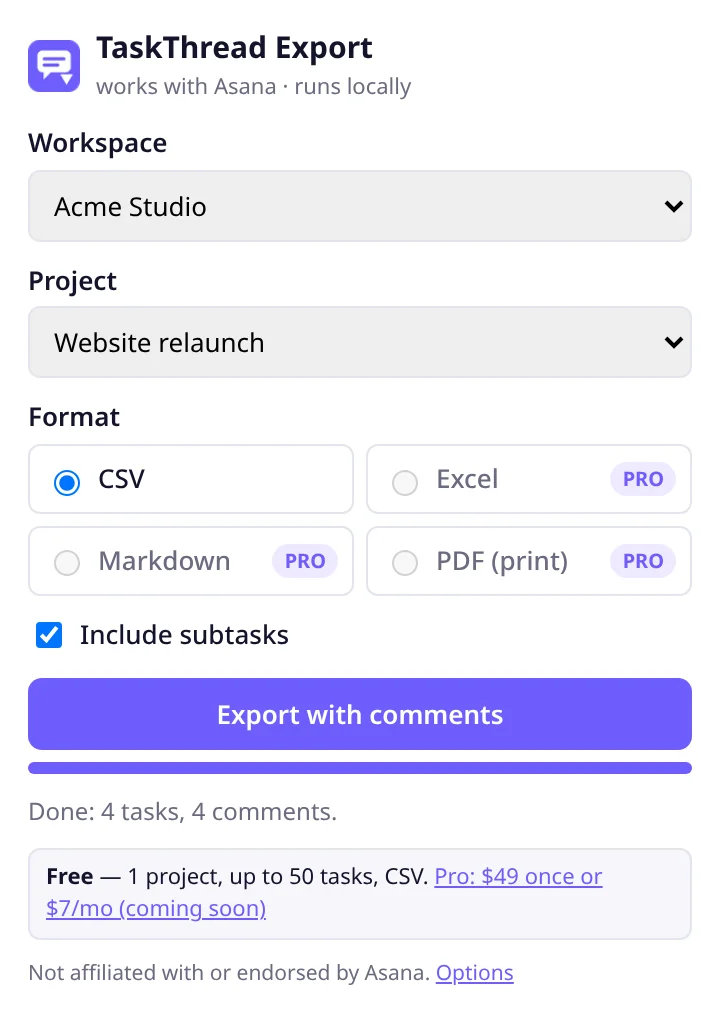
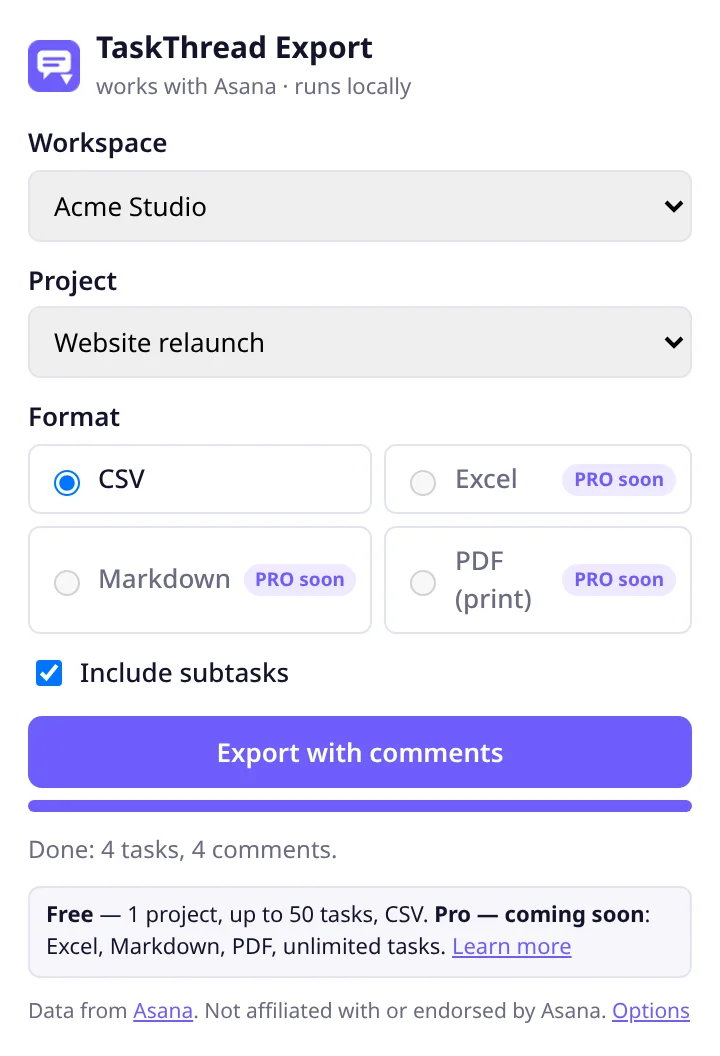
TaskThread: PAT-only privacy policy, Pro coming soon, consent/connect FAQ

diff --git a/taskthread/index.html b/taskthread/index.html
@@ -1,31 +1,32 @@
 <!doctype html><html lang="en"><head><meta charset="utf-8"><meta name="viewport" content="width=device-width,initial-scale=1">
 <title>Export Asana comments to CSV, Excel, Markdown or PDF — TaskThread Export</title>
-<meta name="description" content="Export Asana tasks with their full comment threads to CSV, Excel, Markdown or PDF. A Chrome extension that runs locally on the official Asana API. Free for one project.">
+<meta name="description" content="Export Asana tasks with their full comment threads to CSV (Excel, Markdown and PDF coming soon). A Chrome extension that runs locally on the official Asana API. Free for one project.">
 <link rel="canonical" href="https://dr1nnas.github.io/novif-web/taskthread/"><link rel="icon" href="../assets/taskthread-icon.png">
 <meta property="og:title" content="Export Asana tasks with comments — TaskThread Export"><meta property="og:description" content="Asana's own export leaves comments out. TaskThread Export includes every comment, locally in your browser."><meta property="og:image" content="https://dr1nnas.github.io/novif-web/assets/shots/taskthread-report.webp">
 <script type="application/ld+json">{"@context":"https://schema.org","@type":"SoftwareApplication","name":"TaskThread Export – works with Asana","applicationCategory":"BusinessApplication","operatingSystem":"Chrome","offers":{"@type":"Offer","price":"0","priceCurrency":"USD"}}</script>
 <script type="application/ld+json">{"@context":"https://schema.org","@type":"FAQPage","mainEntity":[{"@type":"Question","name":"Can I export Asana comments?","acceptedAnswer":{"@type":"Answer","text":"Asana's built-in CSV, Excel and JSON project exports do not include comments. TaskThread Export uses the official Asana API to export every task together with its full comment thread to CSV, Excel, Markdown or PDF."}},{"@type":"Question","name":"Does my data leave my browser?","acceptedAnswer":{"@type":"Answer","text":"No. Tasks and comments are fetched from Asana's API directly into your browser and saved as a file on your computer. Nothing is sent to our servers."}}]}</script>
 <style>*{box-sizing:border-box}body{margin:0;font:16px/1.6 system-ui,-apple-system,Segoe UI,Roboto,sans-serif;color:#14142b;background:#fff}a{color:#6d5dfc}img{max-width:100%;display:block}.wrap{max-width:1080px;margin:auto;padding:0 20px}header{border-bottom:1px solid #e4e4ee}header .wrap{display:flex;justify-content:space-between;align-items:center;height:60px}.logo{display:flex;gap:8px;align-items:center;font-weight:800;text-decoration:none;color:inherit}.logo img{width:28px}nav a{margin-left:18px;text-decoration:none;color:#14142b;opacity:.8}section{padding:64px 0}h1{font-size:clamp(2rem,5vw,3.2rem);line-height:1.1;margin:0 0 16px}h2{font-size:1.8rem;margin:0 0 14px}.hero{display:grid;grid-template-columns:1.2fr 1fr;gap:40px;align-items:center}.lead{font-size:1.15rem;color:#44445a}.btn{display:inline-block;background:#6d5dfc;color:#fff;padding:12px 22px;border-radius:8px;text-decoration:none;font-weight:700}.btn.ghost{background:#fff;color:#6d5dfc;border:2px solid #6d5dfc}.cta{display:flex;gap:12px;flex-wrap:wrap;margin:22px 0}.alt{background:#f6f6fb}.g3{display:grid;grid-template-columns:repeat(3,1fr);gap:18px}.g2{display:grid;grid-template-columns:1fr 1fr;gap:18px}.card{background:#fff;border:1px solid #e4e4ee;border-radius:12px;padding:22px}.card h3{margin:0 0 6px}.price{font-size:2rem;font-weight:800}.soon{font-size:.75rem;background:#efeaff;color:#6d5dfc;border-radius:99px;padding:2px 10px;font-weight:700;vertical-align:middle}ul.t{padding-left:20px}.shot{border:1px solid #e4e4ee;border-radius:12px;box-shadow:0 12px 40px rgba(20,20,60,.12)}footer{padding:30px 0 50px;font-size:.85rem;color:#6b6b80;border-top:1px solid #e4e4ee}details{border-bottom:1px solid #e4e4ee;padding:12px 0}summary{font-weight:700;cursor:pointer}@media(max-width:820px){.hero,.g3,.g2{grid-template-columns:1fr}nav a:not(.btn){display:none}}</style></head><body><header><div class="wrap"><a class="logo" href="./"><img src="../assets/taskthread-icon.png" alt="">TaskThread Export</a><nav><a href="#features">Features</a><a href="#pricing">Pricing</a><a href="#faq">FAQ</a><a href="privacy/">Privacy</a></nav></div></header>
 <section><div class="wrap hero"><div><h1>Export Asana tasks <em>with</em> their comments</h1>
-<p class="lead">Asana's built-in export leaves comments out. TaskThread Export is a Chrome extension that exports every task in a project together with its full comment thread — author, date and text — to <b>CSV, Excel, Markdown or a printable PDF</b>.</p>
+<p class="lead">Asana's built-in export leaves comments out. TaskThread Export is a Chrome extension that exports every task in a project together with its full comment thread — author, date and text — to <b>CSV</b> for free — with <b>Excel, Markdown and printable PDF</b> coming soon in Pro.</p>
 <div class="cta"><a class="btn" href="mailto:shop@novif.app?subject=TaskThread%20Export%20early%20access">Get early access</a><a class="btn ghost" href="#pricing">See pricing</a></div>
 <p style="font-size:.9rem;color:#6b6b80">Chrome Web Store listing coming soon · works with Asana · runs 100% in your browser</p></div>
 <img class="shot" src="../assets/shots/taskthread-popup.webp" alt="TaskThread Export popup: pick workspace, project and format, then Export with comments" width="360"></div></section>
 <section id="features" class="alt"><div class="wrap"><h2>Everything the native export misses</h2><div class="g3">
 <div class="card"><h3>Full comment threads</h3><p>Every comment on every task and subtask, in order, with author and timestamp. System noise (assignments, moves) is filtered out.</p></div>
-<div class="card"><h3>4 formats</h3><p>CSV (one row per comment), Excel with Comments + Tasks sheets, Markdown for docs and AI tools, and a clean print-to-PDF report.</p></div>
+<div class="card"><h3>4 formats</h3><p>CSV (one row per comment) is free. Excel with Comments + Tasks sheets, Markdown for docs and AI tools, and a clean print-to-PDF report are Pro features — <b>coming soon</b>.</p></div>
 <div class="card"><h3>Local &amp; private</h3><p>Uses Asana's official API from your browser. No servers see your tasks. Built for teams whose security policy only allows a browser extension.</p></div>
 <div class="card"><h3>Audit trails &amp; handoffs</h3><p>Hand a client a readable record of decisions, archive a finished project, or build a weekly comment summary without copy-paste.</p></div>
 <div class="card"><h3>Sections, subtasks, tags</h3><p>Exports keep sections, assignees, due dates, completion status, tags, notes and task links.</p></div>
 <div class="card"><h3>Official API only</h3><p>No page scraping. Respects Asana's rate limits and pauses automatically when asked to.</p></div>
 </div></div></section>
-<section><div class="wrap g2" style="align-items:center"><div><h2>How to export Asana comments</h2><ol class="t"><li>Install TaskThread Export and connect your Asana account.</li><li>Choose a workspace and a project.</li><li>Pick CSV, Excel, Markdown or PDF and click <b>Export with comments</b>.</li><li>The file saves straight to your computer.</li></ol></div><img class="shot" src="../assets/shots/taskthread-report.webp" alt="Sample PDF report with tasks and their comment threads" loading="lazy"></div></section>
+<section><div class="wrap g2" style="align-items:center"><div><h2>How to export Asana comments</h2><ol class="t"><li>Install TaskThread Export, paste an Asana Personal Access Token and tick “I agree”. The token stays in your browser.</li><li>Choose a workspace and a project.</li><li>Pick CSV (Excel, Markdown and PDF coming soon in Pro) and click <b>Export with comments</b>.</li><li>The file saves straight to your computer.</li></ol></div><img class="shot" src="../assets/shots/taskthread-report.webp" alt="Sample PDF report with tasks and their comment threads" loading="lazy"></div></section>
 <section id="pricing" class="alt"><div class="wrap"><h2>Pricing</h2><div class="g2">
 <div class="card"><h3>Free</h3><div class="price">$0</div><ul class="t"><li>1 project at a time</li><li>Up to 50 tasks per export</li><li>CSV with full comments</li></ul></div>
-<div class="card" style="border-color:#6d5dfc"><h3>Pro <span class="soon">coming soon</span></h3><div class="price">$49 <small style="font-size:1rem;font-weight:500">one-time</small></div><p style="margin:0">or $7/month</p><ul class="t"><li>Unlimited tasks</li><li>Excel, Markdown and PDF</li><li>Several projects in one export</li></ul></div>
+<div class="card" style="border-color:#6d5dfc"><h3>Pro <span class="soon">coming soon</span></h3><p style="margin:0 0 4px;font-size:.85rem;color:#6b6b80">Not on sale yet — planned price:</p><div class="price">$49 <small style="font-size:1rem;font-weight:500">one-time</small></div><p style="margin:0">or $7/month</p><ul class="t"><li>Unlimited tasks</li><li>Excel, Markdown and PDF</li><li>Several projects in one export</li></ul></div>
 </div><p style="font-size:.85rem;color:#6b6b80">A flat price for the app — never per task or per API call.</p></div></section>
 <section id="faq"><div class="wrap"><h2>FAQ</h2>
 <details><summary>Can't Asana export comments already?</summary><p>Asana's project CSV/Excel/JSON exports don't include comments. Graph exports do, but only on Enterprise plans and as raw JSON through the API.</p></details>
+<details><summary>How do I connect?</summary><p>Create a Personal Access Token in Asana (My settings → Apps → Developer apps) and paste it into the extension. It is stored only in your browser’s extension storage and you can revoke it in Asana at any time. One-click sign-in is planned for a later version.</p></details>
 <details><summary>Where does my data go?</summary><p>Straight from Asana's API into your browser and into the file you save. See the <a href="privacy/">privacy policy</a>.</p></details>
 <details><summary>Does it work in the Asana desktop app?</summary><p>No — it's a Chrome extension, so it works in Chrome and Chromium-based browsers.</p></details>
 <details><summary>Is this made by Asana?</summary><p>No. TaskThread Export is an independent tool by novif that works with Asana through its public API.</p></details>

diff --git a/taskthread/privacy/index.html b/taskthread/privacy/index.html
@@ -1,14 +1,14 @@
 <!doctype html><html lang="en"><head><meta charset="utf-8"><meta name="viewport" content="width=device-width,initial-scale=1">
 <title>Privacy policy — TaskThread Export</title><meta name="description" content="TaskThread Export processes your Asana tasks and comments locally in your browser. We collect no task data."><link rel="icon" href="../../assets/taskthread-icon.png">
 <style>*{box-sizing:border-box}body{margin:0;font:16px/1.6 system-ui,-apple-system,Segoe UI,Roboto,sans-serif;color:#14142b;background:#fff}a{color:#6d5dfc}img{max-width:100%;display:block}.wrap{max-width:1080px;margin:auto;padding:0 20px}header{border-bottom:1px solid #e4e4ee}header .wrap{display:flex;justify-content:space-between;align-items:center;height:60px}.logo{display:flex;gap:8px;align-items:center;font-weight:800;text-decoration:none;color:inherit}.logo img{width:28px}nav a{margin-left:18px;text-decoration:none;color:#14142b;opacity:.8}section{padding:64px 0}h1{font-size:clamp(2rem,5vw,3.2rem);line-height:1.1;margin:0 0 16px}h2{font-size:1.8rem;margin:0 0 14px}.hero{display:grid;grid-template-columns:1.2fr 1fr;gap:40px;align-items:center}.lead{font-size:1.15rem;color:#44445a}.btn{display:inline-block;background:#6d5dfc;color:#fff;padding:12px 22px;border-radius:8px;text-decoration:none;font-weight:700}.btn.ghost{background:#fff;color:#6d5dfc;border:2px solid #6d5dfc}.cta{display:flex;gap:12px;flex-wrap:wrap;margin:22px 0}.alt{background:#f6f6fb}.g3{display:grid;grid-template-columns:repeat(3,1fr);gap:18px}.g2{display:grid;grid-template-columns:1fr 1fr;gap:18px}.card{background:#fff;border:1px solid #e4e4ee;border-radius:12px;padding:22px}.card h3{margin:0 0 6px}.price{font-size:2rem;font-weight:800}.soon{font-size:.75rem;background:#efeaff;color:#6d5dfc;border-radius:99px;padding:2px 10px;font-weight:700;vertical-align:middle}ul.t{padding-left:20px}.shot{border:1px solid #e4e4ee;border-radius:12px;box-shadow:0 12px 40px rgba(20,20,60,.12)}footer{padding:30px 0 50px;font-size:.85rem;color:#6b6b80;border-top:1px solid #e4e4ee}details{border-bottom:1px solid #e4e4ee;padding:12px 0}summary{font-weight:700;cursor:pointer}@media(max-width:820px){.hero,.g3,.g2{grid-template-columns:1fr}nav a:not(.btn){display:none}} main{max-width:760px}</style></head><body><header><div class="wrap"><a class="logo" href="../"><img src="../../assets/taskthread-icon.png" alt="">TaskThread Export</a><nav><a href="../#features">Features</a><a href="../#pricing">Pricing</a><a href="../#faq">FAQ</a><a href="./">Privacy</a></nav></div></header>
-<section><main class="wrap"><h1>Privacy policy</h1><p><i>Last updated: 20 October 2026</i></p>
+<section><main class="wrap"><h1>Privacy policy</h1><p><i>Last updated: 20 October 2026 (v0.2 — Personal Access Token sign-in)</i></p>
 <p>This policy covers the TaskThread Export browser extension and this website, operated by novif (contact: <a href="mailto:shop@novif.app">shop@novif.app</a>).</p>
 <h2>Summary</h2><p><b>All processing happens locally in your browser.</b> Your tasks, comments and the names in them are fetched from Asana's official API directly into your browser and written to a file on your device. We never receive, store, sell or share that data.</p>
 <h2>Data the extension handles</h2><ul class="t"><li><b>Task and comment data</b> (task names, notes, comment text, author names, dates, assignees, tags). Comments can contain personal data. It is held in memory only while an export runs, then saved to the file you choose. A PDF report is kept briefly in the browser's session storage so the print tab can show it, and is cleared when the browser closes.</li>
-<li><b>Access token</b>. Your Asana OAuth token or Personal Access Token is stored in the extension's local storage (chrome.storage.local) on your device, used only to call app.asana.com, and removed when you click Disconnect or uninstall.</li>
-<li><b>Settings and license key</b> (plan, license key), stored locally.</li></ul>
-<h2>Our servers</h2><p>When you sign in with OAuth, the extension sends the one-time authorization code (and later a refresh token) to our small token-exchange service, which adds our app secret, forwards it to Asana and returns the token. It does not log or store tokens and never sees task data. With a Personal Access Token, no server of ours is involved.</p>
-<h2>Payments</h2><p>When Pro launches, payments will be handled by a third-party payment provider, which will receive the details you give it to buy (such as email and payment details) under its own privacy policy. We will only receive whether your license is valid.</p>
+<li><b>Personal Access Token</b>. The Asana Personal Access Token you paste is stored only in the extension’s local storage (chrome.storage.local) on your device. It is sent only to Asana’s API (app.asana.com) to read your data, and is deleted when you click Disconnect or uninstall the extension. You can also revoke it in Asana at any time.</li>
+<li><b>Settings and consent</b> (your options and the date you agreed to the data notice), stored locally.</li></ul>
+<h2>Our servers</h2><p>None. The extension talks only to Asana’s API. No task data, token, usage data or analytics is ever sent to us or to any other third party. Before you connect, the extension shows exactly what it will read and asks you to agree.</p>
+<h2>Payments</h2><p>Pro is <b>coming soon</b> and nothing is for sale yet. When it launches, payments will be handled by a third-party payment provider under its own privacy policy, and this policy will be updated before then.</p>
 <h2>What we don't do</h2><ul class="t"><li>No analytics, tracking or ads in the extension.</li><li>No selling or transfer of user data to third parties, and no use of it for anything other than making your export.</li><li>No use of the data for credit or lending decisions, and no human reads it.</li></ul>
 <p>The extension's use of information follows the Chrome Web Store User Data Policy, including the Limited Use requirements.</p>
 <h2>This website</h2><p>This site is static and hosted on GitHub Pages. GitHub may log visitor IP addresses for security (see GitHub's privacy statement). We use no cookies or analytics.</p>
